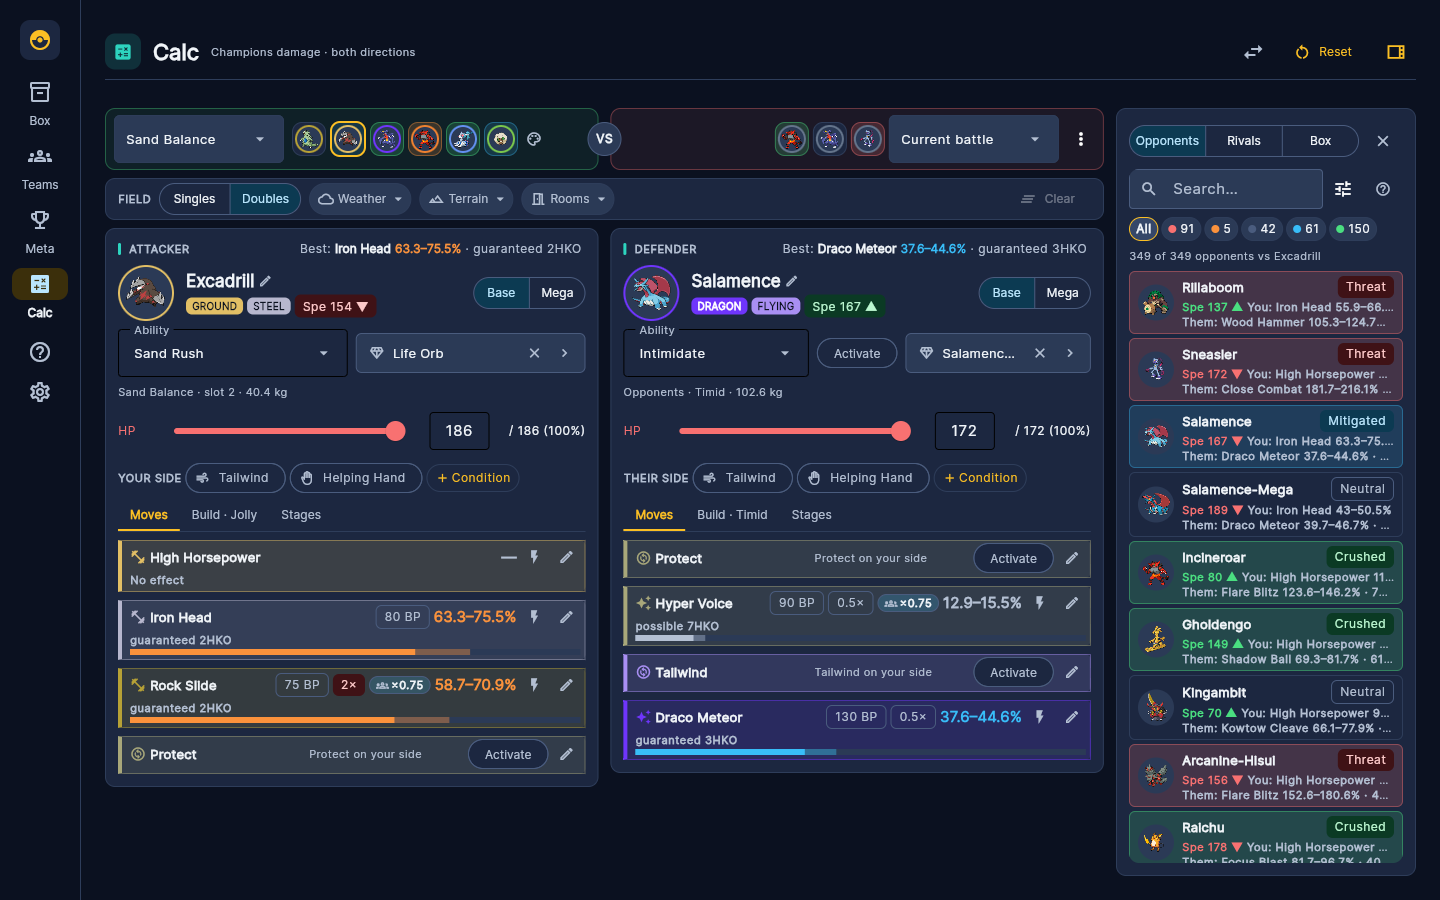
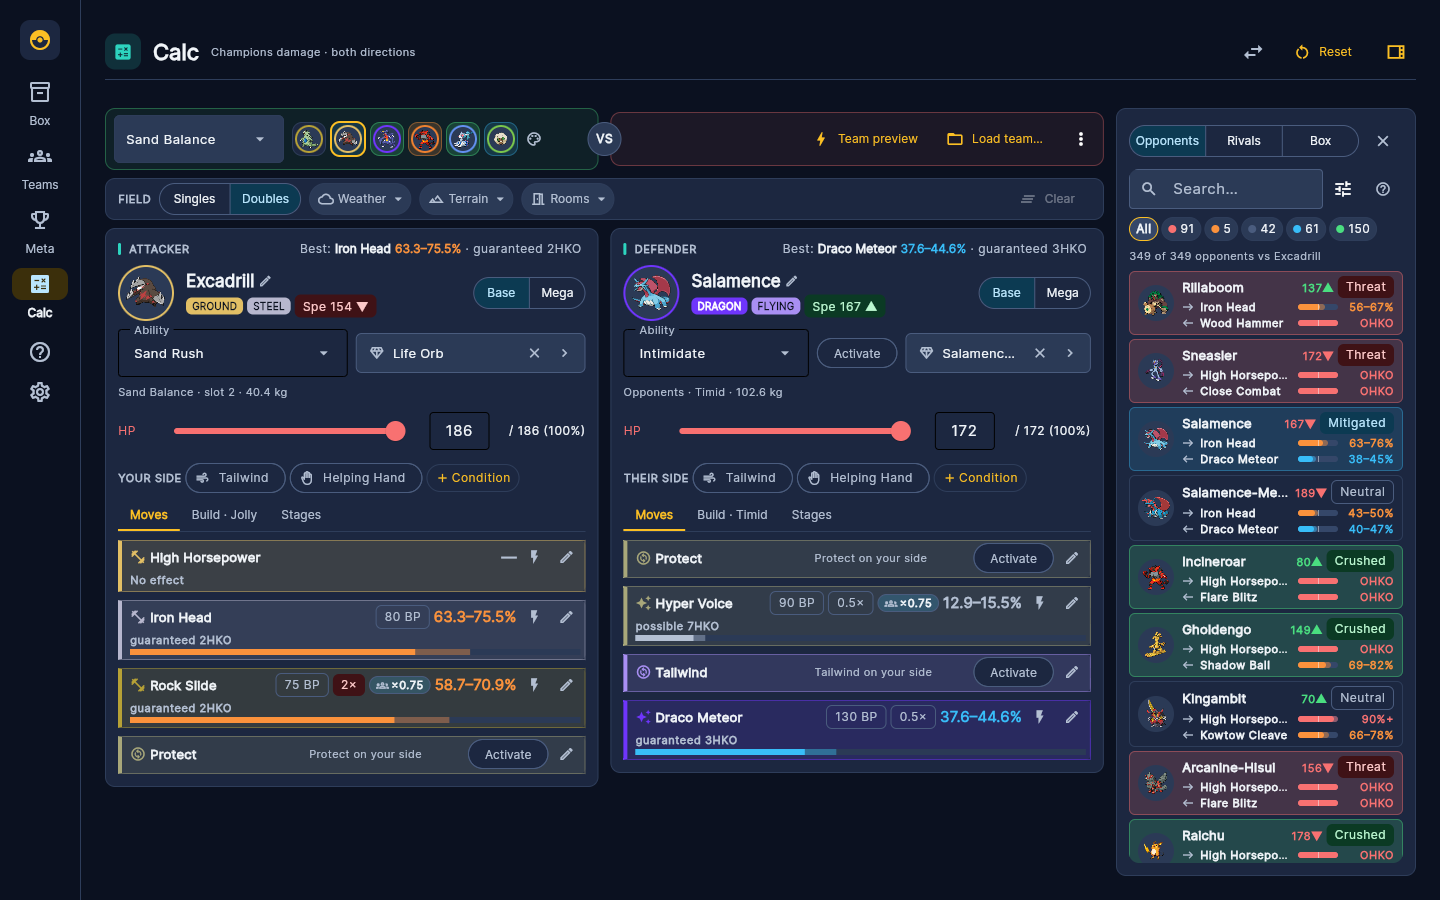
feat(calc): damage gauges on the opponent and rival cards
The side panel's cards showed "You: Knock Off 57.6–68.3%" and "Them: …" as
text that the 300 px panel cut short. damage_line.py draws each best hit as
→/← the move name, a small gauge (the move card's two-tone bar with a tick
at half the HP) and a whole-percent range: "58–68%", "90%+" when the high
rolls KO, "OHKO" when every roll does; the exact range and hits to KO are in
the tooltip. The speed moved beside the name. Used by the Opponents and
Rivals tabs alike.

Changed region(s): [[0.7812, 0.3111, 0.9688, 0.9644], [0.5312, 0.1244, 0.75, 0.1867]]

diff --git a/src/pokemon_champions_planning_tool/ui/views/calc/damage_line.py b/src/pokemon_champions_planning_tool/ui/views/calc/damage_line.py
@@ -1,0 +1,74 @@
+"""One hit as a small gauge, for the side panel's cards: → Knock Off ▰▰▰▱ 58–68%.
+
+The bar is the move card's in miniature (the lowest roll solid, up to the highest roll
+lighter, coloured by how hard it hits) with a tick at half the HP, so a 2HKO reads at a
+glance; the range beside it is rounded to whole percents ("90%+" when the highest roll KOs,
+"OHKO" when every roll does).
+→ is your hit on them, ← theirs on you.
+"""
+
+from __future__ import annotations
+
+import flet as ft
+
+from ...theme import Palette, Radius, alpha
+from .move_card import damage_colour
+from .state import MoveResult
+
+GAUGE_WIDTH = 40
+GAUGE_HEIGHT = 6
+DIRECTIONS = {"you": (ft.Icons.EAST, "Your best hit on them"), "them": (ft.Icons.WEST, "Their best hit on you")}
+
+
+def gauge(min_pct: float, max_pct: float, width: int = GAUGE_WIDTH) -> ft.Control:
+    colour = damage_colour(max_pct)
+
+    def fill(pct: float, color: str) -> ft.Container:
+        return ft.Container(left=0, top=0, width=round(width * min(1.0, pct / 100)), height=GAUGE_HEIGHT, bgcolor=color, border_radius=Radius.PILL)
+
+    return ft.Stack(width=width, height=GAUGE_HEIGHT, controls=[
+        ft.Container(left=0, top=0, width=width, height=GAUGE_HEIGHT, bgcolor=Palette.SURFACE_4, border_radius=Radius.PILL),
+        fill(max_pct, alpha(colour, 0.45)),
+        fill(min_pct, colour),
+        ft.Container(left=width // 2, top=0, width=1, height=GAUGE_HEIGHT, bgcolor=alpha(Palette.ON_SURFACE, 0.5)),   # half the HP
+    ])
+
+
+def pct_range(result: MoveResult) -> str:
+    """"58–68%"; "90%+" when the highest roll KOs, "OHKO" when every roll does. The exact
+    range is in the tooltip; three-digit ranges do not fit the card."""
+    if result.min_pct >= 100:
+        return "OHKO"
+    if result.max_pct >= 100:
+        return f"{result.min_pct:.0f}%+"
+    return f"{result.min_pct:.0f}–{result.max_pct:.0f}%"
+
+
+def damage_line(direction: str, result: MoveResult | None, fallback: str) -> ft.Control:
+    """``direction``: "you" (your hit on them) or "them" (theirs on you)."""
+    icon, what = DIRECTIONS[direction]
+    arrow = ft.Icon(icon, size=12, color=Palette.ON_SURFACE_VARIANT)
+    small = ft.TextThemeStyle.LABEL_SMALL
+    if result is None:
+        return ft.Row(spacing=6, vertical_alignment=ft.CrossAxisAlignment.CENTER, tooltip=what, controls=[
+            arrow, ft.Text(fallback, theme_style=small, color=Palette.ON_SURFACE_VARIANT, italic=True, max_lines=1, overflow=ft.TextOverflow.ELLIPSIS, expand=True),
+        ])
+    hits = f" · {'OHKO' if result.ko_hits == 1 else f'{result.ko_hits}HKO'} on an average roll" if result.ko_hits else ""
+    return ft.Row(spacing=6, vertical_alignment=ft.CrossAxisAlignment.CENTER,
+                  tooltip=f"{what}: {result.name} {result.min_pct:g}–{result.max_pct:g}%{hits}", controls=[
+        arrow,
+        ft.Text(result.name, theme_style=small, color=Palette.ON_SURFACE, max_lines=1, overflow=ft.TextOverflow.ELLIPSIS, expand=True),
+        gauge(result.min_pct, result.max_pct),
+        ft.Text(pct_range(result), theme_style=small, weight=ft.FontWeight.W_700, color=damage_colour(result.max_pct), width=50,
+                text_align=ft.TextAlign.RIGHT, max_lines=1),
+    ])
+
+
+def speed_mark(speed: int, faster: bool, tie: bool = False) -> ft.Text:
+    """"137▼" beside the name: ▲ you move first, ▼ they do."""
+    tip = "Speed tie" if tie else ("You move first" if faster else "They move first")
+    return ft.Text(f"{speed}{'▲' if faster else '▼'}", theme_style=ft.TextThemeStyle.LABEL_SMALL, weight=ft.FontWeight.W_700,
+                   color=Palette.WARNING if tie else (Palette.SUCCESS if faster else Palette.ERROR), tooltip=f"Spe {speed} · {tip}")
+
+
+__all__ = ["GAUGE_WIDTH", "damage_line", "gauge", "pct_range", "speed_mark"]

diff --git a/src/pokemon_champions_planning_tool/ui/views/calc/sweep.py b/src/pokemon_champions_planning_tool/ui/views/calc/sweep.py
@@ -15,7 +15,7 @@ from ...components.inputs import SEARCH_FIELD_STYLE
 from ...tasks import Debouncer, is_mounted, safe_update
 from ...theme import Palette, Radius, Space
 from .classes import CLASS_BG, CLASS_BORDER, CLASS_COLOR, CLASS_HELP, CLASS_TONES
-from .hit import hit_text
+from .damage_line import damage_line, speed_mark
 from .state import SWEEP_CLASSES, SweepEntry
 from .store import CalcStore
 
@@ -35,26 +35,16 @@ class SweepCard(ft.Container):
     def __init__(self, entry: SweepEntry, *, on_pick: Callable[[SweepEntry], None]) -> None:
         super().__init__()
         e = entry
-        yours = hit_text(e.your_best, "no damage")
-        theirs_base = hit_text(e.their_best, "no damaging set" if e.preset else "moves unknown")
-        theirs = f"{theirs_base} · {e.usage_count} teams" if e.usage_count > 0 else theirs_base
-        # Same convention as the panels' speed chip: ▲ = you move first.
-        speed = ft.Text(f"Spe {e.speed} {'▲' if e.faster else '▼'}", theme_style=ft.TextThemeStyle.LABEL_SMALL, color=Palette.SUCCESS if e.faster else Palette.ERROR,
-                        tooltip="You move first" if e.faster else "They move first")
-        # The class chip shares the name's line rather than taking a column of its own:
-        # on a 270px list that column left the name a few letters ("Incin…").
+        # Name, speed and class on one line; under it each side's best hit as a small gauge.
         self.name = ft.Text(e.name, theme_style=ft.TextThemeStyle.BODY_MEDIUM, weight=ft.FontWeight.W_600, color=Palette.ON_SURFACE, max_lines=1, overflow=ft.TextOverflow.ELLIPSIS, expand=True)
         self.klass_chip = StatusChip(dict(SWEEP_CLASSES)[e.klass], CLASS_TONES[e.klass], tooltip=CLASS_HELP[e.klass])  # type: ignore[arg-type]
         self.sprite = Sprite(get_pokemon_sprite_url(e.canonical_id), size=36)
         self.content = ft.Row(spacing=Space.SM, vertical_alignment=ft.CrossAxisAlignment.CENTER, controls=[
             self.sprite,
-            ft.Column(spacing=1, tight=True, expand=True, controls=[
-                ft.Row(spacing=Space.XS, vertical_alignment=ft.CrossAxisAlignment.CENTER, controls=[self.name, self.klass_chip]),
-                ft.Row(spacing=Space.XS, controls=[
-                    speed,
-                    ft.Text(f"You: {yours}", theme_style=ft.TextThemeStyle.LABEL_SMALL, color=Palette.ON_SURFACE_VARIANT, max_lines=1, overflow=ft.TextOverflow.ELLIPSIS, expand=True),
-                ]),
-                ft.Text(f"Them: {theirs}", theme_style=ft.TextThemeStyle.LABEL_SMALL, color=Palette.ON_SURFACE_VARIANT, max_lines=1, overflow=ft.TextOverflow.ELLIPSIS),
+            ft.Column(spacing=2, tight=True, expand=True, controls=[
+                ft.Row(spacing=Space.XS, vertical_alignment=ft.CrossAxisAlignment.CENTER, controls=[self.name, speed_mark(e.speed, e.faster), self.klass_chip]),
+                damage_line("you", e.your_best, "no damage"),
+                damage_line("them", e.their_best, "no damaging set" if e.preset else "moves unknown"),
             ]),
         ])
         self.padding = ft.Padding.symmetric(horizontal=Space.SM, vertical=Space.XS)

diff --git a/src/pokemon_champions_planning_tool/ui/views/calc/rivals_panel.py b/src/pokemon_champions_planning_tool/ui/views/calc/rivals_panel.py
@@ -16,7 +16,7 @@ from ...theme import IconSize, Palette, Radius, Space
 from ...tasks import safe_update
 from .classes import CLASS_BG, CLASS_BORDER, CLASS_HELP, CLASS_TONES
 from .rival_store import RivalStore
-from .hit import hit_text
+from .damage_line import damage_line, speed_mark
 from .state import SWEEP_CLASSES, RivalMember, TeamRating
 
 HELP_LINES: tuple[str, ...] = (
@@ -66,18 +66,8 @@ class RivalCard(ft.Container):
         lines: list[ft.Control]
         if rating is not None:
             head.append(StatusChip(dict(SWEEP_CLASSES)[rating.klass], CLASS_TONES[rating.klass], tooltip=CLASS_HELP[rating.klass]))  # type: ignore[arg-type]
-            speed = ft.Text(f"Spe {rating.their_speed} {'▲' if rating.faster else '▼'}", theme_style=ft.TextThemeStyle.LABEL_SMALL,
-                            color=Palette.SUCCESS if rating.faster else Palette.ERROR,
-                            tooltip="You move first" if rating.faster else ("Speed tie" if rating.your_speed == rating.their_speed else "They move first"))
-            lines = [
-                ft.Row(spacing=Space.XS, controls=[
-                    speed,
-                    ft.Text(f"You: {hit_text(rating.your_best, 'no damage')}", theme_style=ft.TextThemeStyle.LABEL_SMALL, color=Palette.ON_SURFACE_VARIANT,
-                            max_lines=1, overflow=ft.TextOverflow.ELLIPSIS, expand=True),
-                ]),
-                ft.Text(f"Them: {hit_text(rating.their_best, 'no damaging move')}", theme_style=ft.TextThemeStyle.LABEL_SMALL, color=Palette.ON_SURFACE_VARIANT,
-                        max_lines=1, overflow=ft.TextOverflow.ELLIPSIS),
-            ]
+            head.insert(1, speed_mark(rating.their_speed, rating.faster, tie=rating.your_speed == rating.their_speed))
+            lines = [damage_line("you", rating.your_best, "no damage"), damage_line("them", rating.their_best, "no damaging move")]
             self.bgcolor = CLASS_BG.get(rating.klass, Palette.SURFACE_2)
             self.border = ft.Border.all(1, Palette.PRIMARY) if linked else CLASS_BORDER.get(rating.klass, ft.Border.all(1, Palette.OUTLINE_VARIANT))
         else:
@@ -86,7 +76,7 @@ class RivalCard(ft.Container):
             self.border = ft.Border.all(1, Palette.PRIMARY if linked else Palette.OUTLINE_VARIANT)
         self.content = ft.Row(spacing=Space.SM, vertical_alignment=ft.CrossAxisAlignment.CENTER, controls=[
             Sprite(get_pokemon_sprite_url(p.species or ""), size=36),
-            ft.Column(spacing=1, tight=True, expand=True, controls=[
+            ft.Column(spacing=2, tight=True, expand=True, controls=[
                 ft.Row(spacing=Space.XS, vertical_alignment=ft.CrossAxisAlignment.CENTER, controls=head),
                 *lines,
             ]),

diff --git a/tests/test_calc_benchmarks.py b/tests/test_calc_benchmarks.py
@@ -176,6 +176,23 @@ class TestInTheView(_Base):
         self.assertEqual(self.store.state, before)
 
 
+class TestDamageLine(unittest.TestCase):
+    def test_ranges_fit_the_card(self):
+        from pokemon_champions_planning_tool.ui.views.calc.damage_line import damage_line, pct_range
+        from pokemon_champions_planning_tool.ui.views.calc.state import MoveResult
+
+        def hit(lo, hi, ko_hits=None):
+            return MoveResult(0, "Iron Head", "Steel", "Physical", 1, 2, lo, hi, (), "", "", ko_hits=ko_hits)
+
+        self.assertEqual(pct_range(hit(57.6, 68.3)), "58–68%")
+        self.assertEqual(pct_range(hit(90.2, 107.4)), "90%+", "a KO on the high rolls")
+        self.assertEqual(pct_range(hit(116.0, 139.5)), "OHKO", "every roll KOs")
+        line = damage_line("you", hit(57.6, 68.3, ko_hits=2), "no damage")
+        self.assertIn("57.6–68.3%", line.tooltip, "the exact range is one hover away")
+        self.assertIn("2HKO", line.tooltip)
+        self.assertIn("moves unknown", damage_line("them", None, "moves unknown").controls[1].value)
+
+
 class TestTeamStripSizes(unittest.TestCase):
     def test_all_six_fit_down_to_the_smallest_tier(self):
         from pokemon_champions_planning_tool.ui.views.calc.team_strip import TIERS, fit_tier, rival_width, team_width

diff --git a/CHANGELOG.md b/CHANGELOG.md
@@ -38,6 +38,9 @@ for the headings and style.
     tabs; it closes from its header or Ctrl+\ and starts closed on narrower windows. The
     opponents' controls take two short lines: search with a menu for the sort and tournament
     sets, and the classes (Threat, Wall…) as coloured count pills.
+  - Opponent and rival cards show each side's best hit as a small damage gauge instead of a
+    line of text: → your move, ← theirs, a bar with a tick at half the HP, and "58–68%",
+    "90%+" (a KO on the high rolls) or "OHKO". The speed sits beside the name.
   - The team rows scale with the window: the sprites shrink, then the pickers, so all six
     members always show; when even that is too tight the two teams stack. The rival team's
     picker and every rival action (team preview, load, presets, Team vs team) moved to the

diff --git a/docs/testing-strategy.md b/docs/testing-strategy.md
@@ -59,7 +59,7 @@ The project uses Python's standard `unittest` library for automated test executi
 ```bash
 poetry run python -m unittest discover -s tests
 ```
-The test suite executes **664 automated unit, service, repository, and UI tests** using temporary in-memory/isolated SQLite databases.
+The test suite executes **665 automated unit, service, repository, and UI tests** using temporary in-memory/isolated SQLite databases.
 
 ### Running Headless UI Smoke Test
 ```bash
